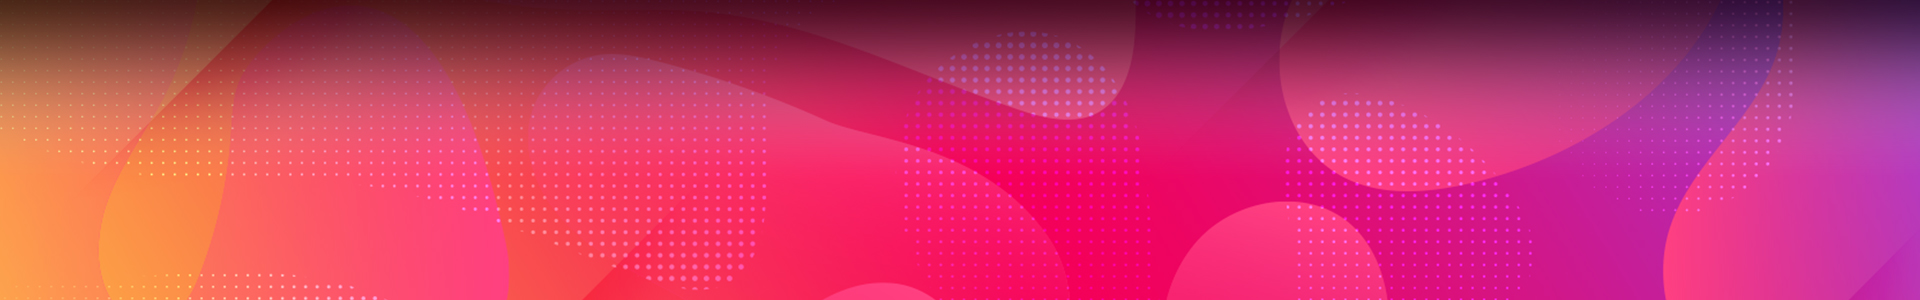
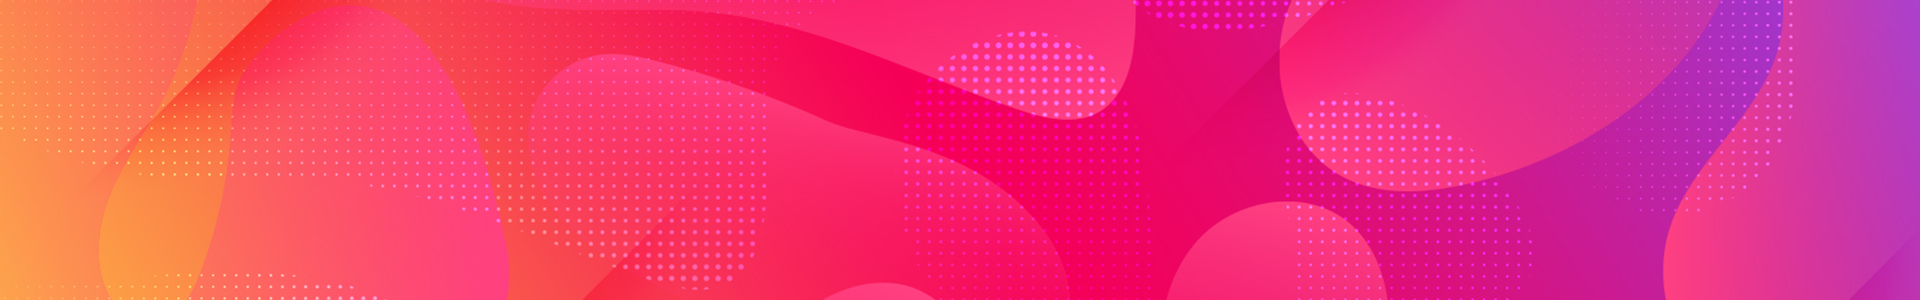
profile back bg changes

diff --git a/src/Pages/creator-profile.jsx b/src/Pages/creator-profile.jsx
@@ -152,14 +152,14 @@ class CreatorProfile extends Component {
                         ""
                       )}
                       {profile?.portfolio?.discord?.url && (
-                          <button
-                            onClick={() => {
-                              window.open(profile.portfolio.discord.url, '_blank');
-                            }}
-                          >
-                            <img src={SocialICO02} alt='' />
-                          </button>
-                        )
+                        <button
+                          onClick={() => {
+                            window.open(profile.portfolio.discord.url, '_blank');
+                          }}
+                        >
+                          <img src={SocialICO02} alt='' />
+                        </button>
+                      )
                       }
                       {profile ? (
                         profile.portfolio?.facebook?.url ? (
@@ -471,6 +471,15 @@ const ProMBannerBX = styled(FlexDiv)`
   background-size: cover;
   background-position: 50% 50%;
   position: relative;
+  :after{
+    content: '';
+    position: absolute;
+    top: 0px;
+    background: linear-gradient(#000, transparent);
+    width: 100%;
+    height: 178px;
+    z-index: 0;
+  }
   ${Media.md} {
     margin-bottom: 250px;
     height:180px;
@@ -489,6 +498,7 @@ const ProMBX01 = styled(FlexDiv)`
   margin-bottom: -291px;
   box-shadow: 0 20px 20px 0 rgba(0, 0, 0, 0.1);
   align-items: stretch;
+  z-index:1;
   ${Media.lg} {
     max-width: 94%;
   }

diff --git a/src/Pages/profile.jsx b/src/Pages/profile.jsx
@@ -349,14 +349,14 @@ class Profile extends Component {
                     ''
                   )}
                   {profile?.portfolio?.discord?.url && (
-                      <button
-                        onClick={() => {
-                          window.open(profile.portfolio.discord.url, '_blank');
-                        }}
-                      >
-                        <img src={SocialICO02} alt='' />
-                      </button>
-                    )
+                    <button
+                      onClick={() => {
+                        window.open(profile.portfolio.discord.url, '_blank');
+                      }}
+                    >
+                      <img src={SocialICO02} alt='' />
+                    </button>
+                  )
                   }
                   {profile ? (
                     profile.portfolio?.facebook?.url ? (
@@ -643,6 +643,15 @@ const ProMBannerBX = styled(FlexDiv)`
   background-size: cover;
   background-position: 50% 50%;
   position: relative;
+  :after{
+    content: '';
+    position: absolute;
+    top: 0px;
+    background: linear-gradient(#000, transparent);
+    width: 100%;
+    height: 178px;
+    z-index: 0;
+  }
   ${Media.md} {
     margin-bottom: 180px;
     height: 180px;
@@ -661,6 +670,7 @@ const ProMBX01 = styled(FlexDiv)`
   margin-bottom: -291px;
   box-shadow: 0 20px 20px 0 rgba(0, 0, 0, 0.1);
   align-items: stretch;
+  z-index:1;
   ${Media.lg} {
     max-width: 94%;
   }
